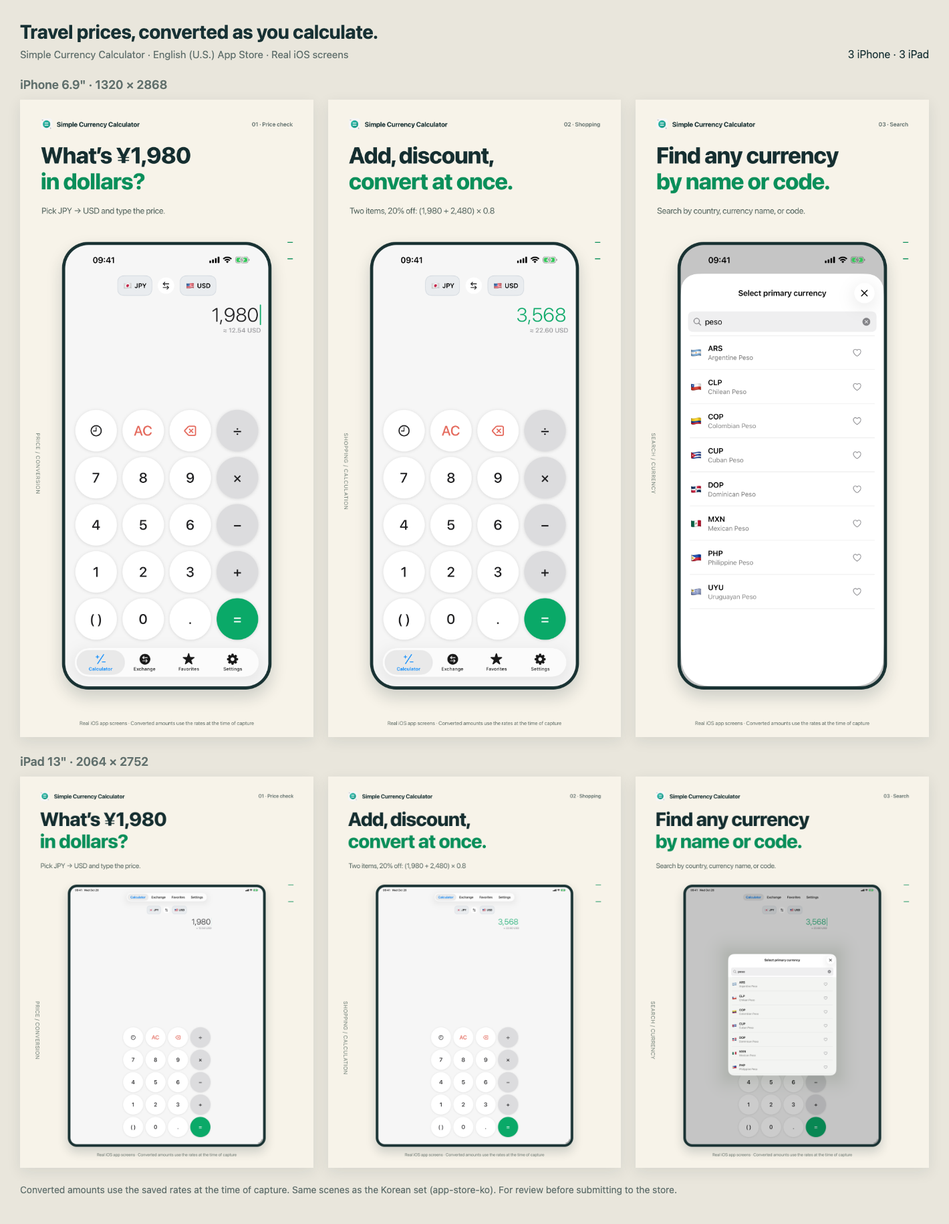
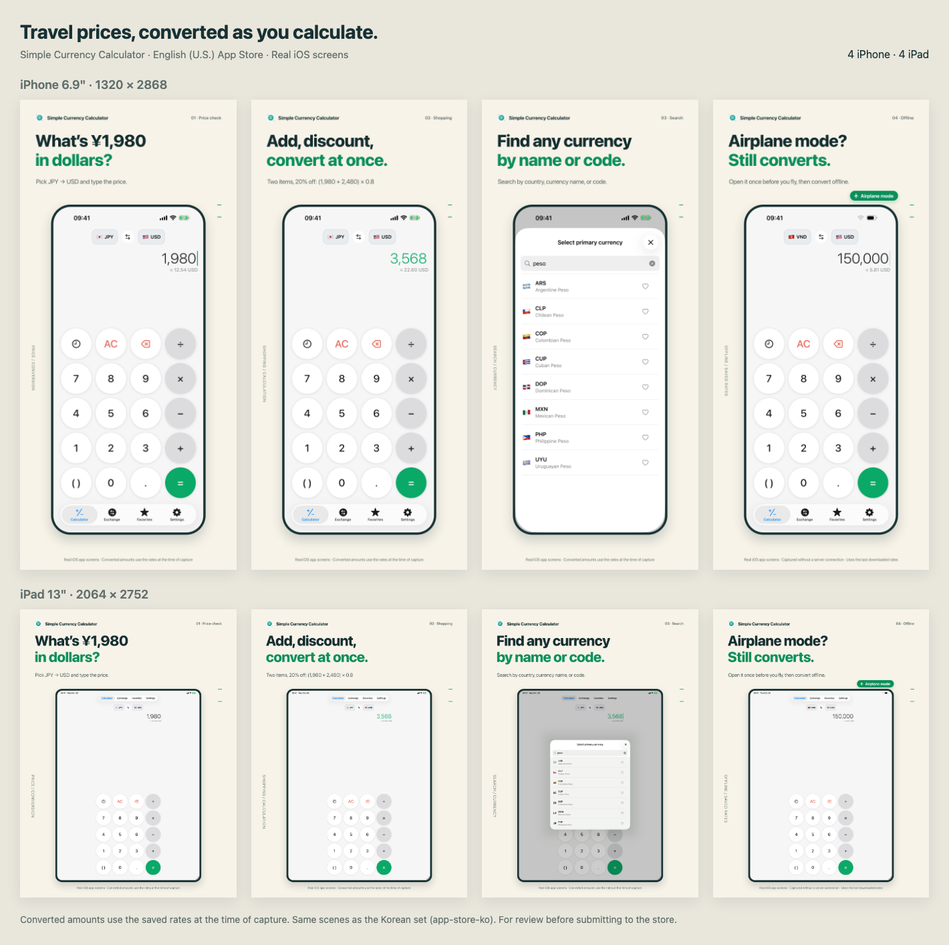
오프라인 장면을 스토어 이미지에 더하고 오프라인 문구에 조건을 붙인다 (#96)
- 환율을 한 번 받아 두면 비행기 안에서도 저장된 환율로 환산되는 장면을
  4번째 스크린샷으로 더한다. 통화는 베트남 동(한국어 VND→KRW, 영어 VND→USD).
  - Play 한국어: travel-ko-20261022/04-offline (실기기 비행기 모드 촬영)
  - Play 영어: en/05-offline (실기기 비행기 모드 촬영)
  - App Store 한국어·영어: iphone-04, ipad-04 (시뮬레이터에서 서버 연결 없이 촬영)
- 10월 22일에 만든 여행 세트(travel-ko-20261022) 전체를 함께 올린다.
- Play 등록 문구의 "오프라인에서도 사용 가능"에 "환율을 한 번 받아 두면"을 붙이고,
  기준일을 늘 보여 준다는 표현을 실제로 보여 주는 환율·즐겨찾기 화면으로 좁힌다.

Changed region(s): [[0.0, 0.0, 0.9606, 0.9965], [0.8986, 0.0311, 0.9915, 0.0623], [0.031, 0.9653, 0.062, 0.9965]]

diff --git a/store-assets/travel-ko-20261022/04-offline.html b/store-assets/travel-ko-20261022/04-offline.html
@@ -1,0 +1,1 @@
+<!DOCTYPE html><html lang="ko"><meta charset="utf-8"><title>심플 환율 계산기 · 04 · 오프라인</title><style>*{box-sizing:border-box}html,body{margin:0;padding:0}body{font-family:"Apple SD Gothic Neo","Arial",sans-serif;color:#152e30;background:#f7f3e9;-webkit-font-smoothing:antialiased}.artboard{position:relative;width:1080px;height:1920px;overflow:hidden;background:#f7f3e9}.brand{position:absolute;left:76px;top:60px;display:flex;align-items:center;gap:16px;font-size:24px;font-weight:700;letter-spacing:-.4px}.brand img{width:42px;height:42px;object-fit:contain;border-radius:10px}.episode{position:absolute;right:76px;top:69px;font-size:21px;font-weight:600;color:#61706d}.headline{position:absolute;left:76px;top:145px;margin:0;font-size:88px;line-height:1.14;letter-spacing:-4.2px;font-weight:800}.headline em{font-style:normal;color:#d85525}.subhead{position:absolute;left:80px;right:65px;top:366px;font-size:30px;line-height:1.5;letter-spacing:-.6px;color:#53645e;margin:0}.phone{position:absolute;top:484px;left:226px;width:628px;padding:10px;background:#193233;border-radius:43px;box-shadow:0 28px 56px rgba(21,46,48,.18)}.phone img{display:block;width:608px;height:auto;border-radius:33px}.footer{position:absolute;left:0;right:0;bottom:22px;text-align:center;font-size:19px;color:#68746d;letter-spacing:-.2px}.note{position:absolute;left:65px;top:928px;writing-mode:vertical-rl;letter-spacing:2.4px;font-size:20px;color:#6f7e75}.note span{color:#d85525;font-weight:800}.index-mark{position:absolute;right:76px;top:484px;width:20px;height:64px;border-top:3px solid #d85525;border-bottom:3px solid #d85525}.feature{position:relative;width:1024px;height:500px;overflow:hidden;background:#f7f3e9}.feature .brand{top:43px;left:53px;font-size:21px}.feature .brand img{width:35px;height:35px}.feature h1{position:absolute;top:135px;left:53px;font-size:60px;line-height:1.18;letter-spacing:-3px;margin:0;font-weight:800}.feature h1 em{font-style:normal;color:#d85525}.feature p{position:absolute;left:57px;top:305px;font-size:24px;letter-spacing:-.5px;color:#53645e;line-height:1.5}.feature-phone{position:absolute;width:277px;padding:7px;background:#193233;top:38px;right:64px;border-radius:29px;transform:rotate(5deg);box-shadow:0 20px 35px #19323320}.feature-phone img{width:263px;display:block;border-radius:22px}.feature .mini{position:absolute;bottom:27px;left:57px;font-size:17px;color:#68746d}.airplane{position:absolute;right:226px;top:420px;display:flex;align-items:center;gap:10px;height:48px;padding:0 22px 0 18px;border-radius:24px;background:#d85525;color:#fff;font-size:24px;font-weight:700;letter-spacing:-.4px;box-shadow:0 8px 18px rgba(216,85,37,.25)}.airplane svg{width:26px;height:26px;fill:#fff}.airplane-line{position:absolute;left:728px;top:468px;width:3px;height:39px;background:#d85525}.airplane-ring{position:absolute;left:712px;top:507px;width:34px;height:34px;border:3px solid #d85525;border-radius:50%}</style><main class="artboard"><div class="brand"><img src="app-icon.png" alt="">심플 환율 계산기</div><div class="episode">04 · 오프라인</div><h1 class="headline">비행기 안에서도,<br><em>저장된 환율로.</em></h1><p class="subhead">출국 전에 한 번 열어 두면 인터넷 없이 환산돼요.</p><div class="note">OFFLINE / SAVED RATES</div><div class="index-mark"></div><div class="phone"><img src="raw/04-offline.png" alt="실제 Android 앱 화면"></div><div class="airplane"><svg viewBox="0 0 24 24" aria-hidden="true"><path d="M21 16v-2l-8-5V3.5c0-.83-.67-1.5-1.5-1.5S10 2.67 10 3.5V9l-8 5v2l8-2.5V19l-2 1.5V22l3.5-1 3.5 1v-1.5L13 19v-5.5l8 2.5z"/></svg>비행기 모드</div><div class="airplane-line"></div><div class="airplane-ring"></div><div class="footer">실제 Android 앱 화면 · 비행기 모드에서 촬영 · 마지막으로 받은 환율 기준</div></main></html>

diff --git a/store-assets/en/05-offline.html b/store-assets/en/05-offline.html
@@ -1,0 +1,1 @@
+<!DOCTYPE html><html lang="en"><meta charset="utf-8"><title>Simple Currency Calculator · 05 · Offline</title><style>*{box-sizing:border-box}html,body{margin:0;padding:0}body{font-family:system-ui,"Helvetica Neue",Arial,sans-serif;color:#152e30;background:#f7f3e9;-webkit-font-smoothing:antialiased}.artboard{position:relative;width:1080px;height:1920px;overflow:hidden;background:#f7f3e9}.brand{position:absolute;left:76px;top:60px;display:flex;align-items:center;gap:16px;font-size:24px;font-weight:700;letter-spacing:-.4px}.brand img{width:42px;height:42px;object-fit:contain;border-radius:10px}.episode{position:absolute;right:76px;top:69px;font-size:21px;font-weight:600;color:#61706d}.headline{position:absolute;left:76px;top:145px;margin:0;font-size:84px;line-height:1.14;letter-spacing:-1.8px;font-weight:800}.headline em{font-style:normal;color:#d85525}.subhead{position:absolute;left:80px;right:65px;top:366px;font-size:30px;line-height:1.5;letter-spacing:-.6px;color:#53645e;margin:0}.phone{position:absolute;top:484px;left:226px;width:628px;padding:10px;background:#193233;border-radius:43px;box-shadow:0 28px 56px rgba(21,46,48,.18)}.phone img{display:block;width:608px;height:auto;border-radius:33px}.footer{position:absolute;left:0;right:0;bottom:22px;text-align:center;font-size:19px;color:#68746d;letter-spacing:-.2px}.note{position:absolute;left:65px;top:928px;writing-mode:vertical-rl;letter-spacing:2.4px;font-size:20px;color:#6f7e75}.note span{color:#d85525;font-weight:800}.index-mark{position:absolute;right:76px;top:484px;width:20px;height:64px;border-top:3px solid #d85525;border-bottom:3px solid #d85525}.feature{position:relative;width:1024px;height:500px;overflow:hidden;background:#f7f3e9}.feature .brand{top:43px;left:53px;font-size:21px}.feature .brand img{width:35px;height:35px}.feature h1{position:absolute;top:135px;left:53px;font-size:60px;line-height:1.18;letter-spacing:-3px;margin:0;font-weight:800}.feature h1 em{font-style:normal;color:#d85525}.feature p{position:absolute;left:57px;top:305px;font-size:24px;letter-spacing:-.5px;color:#53645e;line-height:1.5}.feature-phone{position:absolute;width:277px;padding:7px;background:#193233;top:38px;right:64px;border-radius:29px;transform:rotate(5deg);box-shadow:0 20px 35px #19323320}.feature-phone img{width:263px;display:block;border-radius:22px}.feature .mini{position:absolute;bottom:27px;left:57px;font-size:17px;color:#68746d}.airplane{position:absolute;right:226px;top:420px;display:flex;align-items:center;gap:10px;height:48px;padding:0 22px 0 18px;border-radius:24px;background:#d85525;color:#fff;font-size:24px;font-weight:700;letter-spacing:-.4px;box-shadow:0 8px 18px rgba(216,85,37,.25)}.airplane svg{width:26px;height:26px;fill:#fff}.airplane-line{position:absolute;left:728px;top:468px;width:3px;height:39px;background:#d85525}.airplane-ring{position:absolute;left:712px;top:507px;width:34px;height:34px;border:3px solid #d85525;border-radius:50%}</style><main class="artboard"><div class="brand"><img src="_icon.png" alt="">Simple Currency Calculator</div><div class="episode">05 · Offline</div><h1 class="headline">Airplane mode?<br><em>Still converts.</em></h1><p class="subhead">Open it once before you fly, then convert offline.</p><div class="note">OFFLINE / SAVED RATES</div><div class="index-mark"></div><div class="phone"><img src="raw/05-offline.png" alt="Real Android app screen"></div><div class="airplane"><svg viewBox="0 0 24 24" aria-hidden="true"><path d="M21 16v-2l-8-5V3.5c0-.83-.67-1.5-1.5-1.5S10 2.67 10 3.5V9l-8 5v2l8-2.5V19l-2 1.5V22l3.5-1 3.5 1v-1.5L13 19v-5.5l8 2.5z"/></svg>Airplane mode</div><div class="airplane-line"></div><div class="airplane-ring"></div><div class="footer">Real Android app screen · Captured in airplane mode · Uses the last downloaded rates</div></main></html>

diff --git a/store-assets/app-store-ko/preview.html b/store-assets/app-store-ko/preview.html
@@ -1,5 +1,5 @@
-<!DOCTYPE html><html lang="ko"><meta charset="utf-8"><title>심플 환율 계산기 · App Store 스크린샷</title><style>*{box-sizing:border-box}body{margin:0;background:#e9e6dc;color:#173134;font-family:"Apple SD Gothic Neo",sans-serif;padding:30px}header{max-width:1360px;margin:0 auto 22px;display:flex;justify-content:space-between;align-items:end}h1{font-size:29px;letter-spacing:-1px;margin:0}h2{max-width:1360px;margin:26px auto 12px;font-size:18px;color:#61706d;font-weight:600}p{font-size:15px;color:#61706d;margin:8px 0 0}.grid{display:grid;grid-template-columns:repeat(3,minmax(0,1fr));gap:22px;max-width:1360px;margin:auto}.grid img{width:100%;display:block;box-shadow:0 6px 20px #17313417}footer{max-width:1360px;margin:24px auto 0;color:#61706d;font-size:14px}</style>
-<header><div><h1>여행지 가격, 계산하면서 원화로.</h1><p>심플 환율 계산기 · 한국어 App Store용 · 실제 iOS 화면</p></div><span>iPhone 3장 · iPad 3장</span></header>
-<h2>iPhone 6.9형 · 1320 × 2868</h2><main class="grid"><a href="iphone-01.png"><img src="iphone-01.png" alt="iPhone 01 · 가격 확인"></a><a href="iphone-02.png"><img src="iphone-02.png" alt="iPhone 02 · 여행 쇼핑"></a><a href="iphone-03.png"><img src="iphone-03.png" alt="iPhone 03 · 통화 검색"></a></main>
-<h2>iPad 13형 · 2064 × 2752</h2><main class="grid"><a href="ipad-01.png"><img src="ipad-01.png" alt="iPad 01 · 가격 확인"></a><a href="ipad-02.png"><img src="ipad-02.png" alt="iPad 02 · 여행 쇼핑"></a><a href="ipad-03.png"><img src="ipad-03.png" alt="iPad 03 · 통화 검색"></a></main>
+<!DOCTYPE html><html lang="ko"><meta charset="utf-8"><title>심플 환율 계산기 · App Store 스크린샷</title><style>*{box-sizing:border-box}body{margin:0;background:#e9e6dc;color:#173134;font-family:"Apple SD Gothic Neo",sans-serif;padding:30px}header{max-width:1360px;margin:0 auto 22px;display:flex;justify-content:space-between;align-items:end}h1{font-size:29px;letter-spacing:-1px;margin:0}h2{max-width:1360px;margin:26px auto 12px;font-size:18px;color:#61706d;font-weight:600}p{font-size:15px;color:#61706d;margin:8px 0 0}.grid{display:grid;grid-template-columns:repeat(3,minmax(0,1fr));gap:22px;max-width:1360px;margin:auto}.grid4{grid-template-columns:repeat(4,minmax(0,1fr))}.grid img{width:100%;display:block;box-shadow:0 6px 20px #17313417}footer{max-width:1360px;margin:24px auto 0;color:#61706d;font-size:14px}</style>
+<header><div><h1>여행지 가격, 계산하면서 원화로.</h1><p>심플 환율 계산기 · 한국어 App Store용 · 실제 iOS 화면</p></div><span>iPhone 4장 · iPad 4장</span></header>
+<h2>iPhone 6.9형 · 1320 × 2868</h2><main class="grid grid4"><a href="iphone-01.png"><img src="iphone-01.png" alt="iPhone 01 · 가격 확인"></a><a href="iphone-02.png"><img src="iphone-02.png" alt="iPhone 02 · 여행 쇼핑"></a><a href="iphone-03.png"><img src="iphone-03.png" alt="iPhone 03 · 통화 검색"></a><a href="iphone-04.png"><img src="iphone-04.png" alt="iPhone 04 · 오프라인"></a></main>
+<h2>iPad 13형 · 2064 × 2752</h2><main class="grid grid4"><a href="ipad-01.png"><img src="ipad-01.png" alt="iPad 01 · 가격 확인"></a><a href="ipad-02.png"><img src="ipad-02.png" alt="iPad 02 · 여행 쇼핑"></a><a href="ipad-03.png"><img src="ipad-03.png" alt="iPad 03 · 통화 검색"></a><a href="ipad-04.png"><img src="ipad-04.png" alt="iPad 04 · 오프라인"></a></main>
 <footer>환산 금액은 촬영 당시의 저장 환율 기준입니다. 문구는 Android 여행 세트(travel-ko-20261022)와 같습니다. 스토어 등록 전 검토용입니다.</footer></html>

diff --git a/store-assets/app-store-en/preview.html b/store-assets/app-store-en/preview.html
@@ -1,5 +1,5 @@
-<!DOCTYPE html><html lang="en"><meta charset="utf-8"><title>Simple Currency Calculator · App Store screenshots</title><style>*{box-sizing:border-box}body{margin:0;background:#e9e6dc;color:#173134;font-family:system-ui,"Helvetica Neue",sans-serif;padding:30px}header{max-width:1360px;margin:0 auto 22px;display:flex;justify-content:space-between;align-items:end}h1{font-size:29px;letter-spacing:-.4px;margin:0}h2{max-width:1360px;margin:26px auto 12px;font-size:18px;color:#61706d;font-weight:600}p{font-size:15px;color:#61706d;margin:8px 0 0}.grid{display:grid;grid-template-columns:repeat(3,minmax(0,1fr));gap:22px;max-width:1360px;margin:auto}.grid img{width:100%;display:block;box-shadow:0 6px 20px #17313417}footer{max-width:1360px;margin:24px auto 0;color:#61706d;font-size:14px}</style>
-<header><div><h1>Travel prices, converted as you calculate.</h1><p>Simple Currency Calculator · English (U.S.) App Store · Real iOS screens</p></div><span>3 iPhone · 3 iPad</span></header>
-<h2>iPhone 6.9" · 1320 × 2868</h2><main class="grid"><a href="iphone-01.png"><img src="iphone-01.png" alt="iPhone 01 · Price check"></a><a href="iphone-02.png"><img src="iphone-02.png" alt="iPhone 02 · Shopping"></a><a href="iphone-03.png"><img src="iphone-03.png" alt="iPhone 03 · Search"></a></main>
-<h2>iPad 13" · 2064 × 2752</h2><main class="grid"><a href="ipad-01.png"><img src="ipad-01.png" alt="iPad 01 · Price check"></a><a href="ipad-02.png"><img src="ipad-02.png" alt="iPad 02 · Shopping"></a><a href="ipad-03.png"><img src="ipad-03.png" alt="iPad 03 · Search"></a></main>
+<!DOCTYPE html><html lang="en"><meta charset="utf-8"><title>Simple Currency Calculator · App Store screenshots</title><style>*{box-sizing:border-box}body{margin:0;background:#e9e6dc;color:#173134;font-family:system-ui,"Helvetica Neue",sans-serif;padding:30px}header{max-width:1360px;margin:0 auto 22px;display:flex;justify-content:space-between;align-items:end}h1{font-size:29px;letter-spacing:-.4px;margin:0}h2{max-width:1360px;margin:26px auto 12px;font-size:18px;color:#61706d;font-weight:600}p{font-size:15px;color:#61706d;margin:8px 0 0}.grid{display:grid;grid-template-columns:repeat(3,minmax(0,1fr));gap:22px;max-width:1360px;margin:auto}.grid4{grid-template-columns:repeat(4,minmax(0,1fr))}.grid img{width:100%;display:block;box-shadow:0 6px 20px #17313417}footer{max-width:1360px;margin:24px auto 0;color:#61706d;font-size:14px}</style>
+<header><div><h1>Travel prices, converted as you calculate.</h1><p>Simple Currency Calculator · English (U.S.) App Store · Real iOS screens</p></div><span>4 iPhone · 4 iPad</span></header>
+<h2>iPhone 6.9" · 1320 × 2868</h2><main class="grid grid4"><a href="iphone-01.png"><img src="iphone-01.png" alt="iPhone 01 · Price check"></a><a href="iphone-02.png"><img src="iphone-02.png" alt="iPhone 02 · Shopping"></a><a href="iphone-03.png"><img src="iphone-03.png" alt="iPhone 03 · Search"></a><a href="iphone-04.png"><img src="iphone-04.png" alt="iPhone 04 · Offline"></a></main>
+<h2>iPad 13" · 2064 × 2752</h2><main class="grid grid4"><a href="ipad-01.png"><img src="ipad-01.png" alt="iPad 01 · Price check"></a><a href="ipad-02.png"><img src="ipad-02.png" alt="iPad 02 · Shopping"></a><a href="ipad-03.png"><img src="ipad-03.png" alt="iPad 03 · Search"></a><a href="ipad-04.png"><img src="ipad-04.png" alt="iPad 04 · Offline"></a></main>
 <footer>Converted amounts use the saved rates at the time of capture. Same scenes as the Korean set (app-store-ko). For review before submitting to the store.</footer></html>

diff --git a/store-assets/travel-ko-20261022/03-currency-search.html b/store-assets/travel-ko-20261022/03-currency-search.html
@@ -1,0 +1,1 @@
+<!DOCTYPE html><html lang="ko"><meta charset="utf-8"><title>심플 환율 계산기 · 03 · 통화 검색</title><style>*{box-sizing:border-box}html,body{margin:0;padding:0}body{font-family:"Apple SD Gothic Neo","Arial",sans-serif;color:#152e30;background:#f7f3e9;-webkit-font-smoothing:antialiased}.artboard{position:relative;width:1080px;height:1920px;overflow:hidden;background:#f7f3e9}.brand{position:absolute;left:76px;top:60px;display:flex;align-items:center;gap:16px;font-size:24px;font-weight:700;letter-spacing:-.4px}.brand img{width:42px;height:42px;object-fit:contain;border-radius:10px}.episode{position:absolute;right:76px;top:69px;font-size:21px;font-weight:600;color:#61706d}.headline{position:absolute;left:76px;top:145px;margin:0;font-size:88px;line-height:1.14;letter-spacing:-4.2px;font-weight:800}.headline em{font-style:normal;color:#d85525}.subhead{position:absolute;left:80px;right:65px;top:366px;font-size:30px;line-height:1.5;letter-spacing:-.6px;color:#53645e;margin:0}.phone{position:absolute;top:484px;left:226px;width:628px;padding:10px;background:#193233;border-radius:43px;box-shadow:0 28px 56px rgba(21,46,48,.18)}.phone img{display:block;width:608px;height:auto;border-radius:33px}.footer{position:absolute;left:0;right:0;bottom:22px;text-align:center;font-size:19px;color:#68746d;letter-spacing:-.2px}.note{position:absolute;left:65px;top:928px;writing-mode:vertical-rl;letter-spacing:2.4px;font-size:20px;color:#6f7e75}.note span{color:#d85525;font-weight:800}.index-mark{position:absolute;right:76px;top:484px;width:20px;height:64px;border-top:3px solid #d85525;border-bottom:3px solid #d85525}.feature{position:relative;width:1024px;height:500px;overflow:hidden;background:#f7f3e9}.feature .brand{top:43px;left:53px;font-size:21px}.feature .brand img{width:35px;height:35px}.feature h1{position:absolute;top:135px;left:53px;font-size:60px;line-height:1.18;letter-spacing:-3px;margin:0;font-weight:800}.feature h1 em{font-style:normal;color:#d85525}.feature p{position:absolute;left:57px;top:305px;font-size:24px;letter-spacing:-.5px;color:#53645e;line-height:1.5}.feature-phone{position:absolute;width:277px;padding:7px;background:#193233;top:38px;right:64px;border-radius:29px;transform:rotate(5deg);box-shadow:0 20px 35px #19323320}.feature-phone img{width:263px;display:block;border-radius:22px}.feature .mini{position:absolute;bottom:27px;left:57px;font-size:17px;color:#68746d}</style><main class="artboard"><div class="brand"><img src="app-icon.png" alt="">심플 환율 계산기</div><div class="episode">03 · 통화 검색</div><h1 class="headline">여행지 통화,<br><em>검색해서 빠르게.</em></h1><p class="subhead">나라·통화 이름·코드로 찾을 수 있어요.</p><div class="note">SEARCH / CURRENCY</div><div class="index-mark"></div><div class="phone"><img src="raw/03-currency-search-list.png" alt="실제 Android 앱 화면"></div><div class="footer">실제 Android 앱 화면 · 환산 금액은 촬영 당시 환율 기준</div></main></html>

diff --git a/store-assets/travel-ko-20261022/02-shopping-discount.html b/store-assets/travel-ko-20261022/02-shopping-discount.html
@@ -1,0 +1,1 @@
+<!DOCTYPE html><html lang="ko"><meta charset="utf-8"><title>심플 환율 계산기 · 02 · 여행 쇼핑</title><style>*{box-sizing:border-box}html,body{margin:0;padding:0}body{font-family:"Apple SD Gothic Neo","Arial",sans-serif;color:#152e30;background:#f7f3e9;-webkit-font-smoothing:antialiased}.artboard{position:relative;width:1080px;height:1920px;overflow:hidden;background:#f7f3e9}.brand{position:absolute;left:76px;top:60px;display:flex;align-items:center;gap:16px;font-size:24px;font-weight:700;letter-spacing:-.4px}.brand img{width:42px;height:42px;object-fit:contain;border-radius:10px}.episode{position:absolute;right:76px;top:69px;font-size:21px;font-weight:600;color:#61706d}.headline{position:absolute;left:76px;top:145px;margin:0;font-size:88px;line-height:1.14;letter-spacing:-4.2px;font-weight:800}.headline em{font-style:normal;color:#d85525}.subhead{position:absolute;left:80px;right:65px;top:366px;font-size:30px;line-height:1.5;letter-spacing:-.6px;color:#53645e;margin:0}.phone{position:absolute;top:484px;left:226px;width:628px;padding:10px;background:#193233;border-radius:43px;box-shadow:0 28px 56px rgba(21,46,48,.18)}.phone img{display:block;width:608px;height:auto;border-radius:33px}.footer{position:absolute;left:0;right:0;bottom:22px;text-align:center;font-size:19px;color:#68746d;letter-spacing:-.2px}.note{position:absolute;left:65px;top:928px;writing-mode:vertical-rl;letter-spacing:2.4px;font-size:20px;color:#6f7e75}.note span{color:#d85525;font-weight:800}.index-mark{position:absolute;right:76px;top:484px;width:20px;height:64px;border-top:3px solid #d85525;border-bottom:3px solid #d85525}.feature{position:relative;width:1024px;height:500px;overflow:hidden;background:#f7f3e9}.feature .brand{top:43px;left:53px;font-size:21px}.feature .brand img{width:35px;height:35px}.feature h1{position:absolute;top:135px;left:53px;font-size:60px;line-height:1.18;letter-spacing:-3px;margin:0;font-weight:800}.feature h1 em{font-style:normal;color:#d85525}.feature p{position:absolute;left:57px;top:305px;font-size:24px;letter-spacing:-.5px;color:#53645e;line-height:1.5}.feature-phone{position:absolute;width:277px;padding:7px;background:#193233;top:38px;right:64px;border-radius:29px;transform:rotate(5deg);box-shadow:0 20px 35px #19323320}.feature-phone img{width:263px;display:block;border-radius:22px}.feature .mini{position:absolute;bottom:27px;left:57px;font-size:17px;color:#68746d}</style><main class="artboard"><div class="brand"><img src="app-icon.png" alt="">심플 환율 계산기</div><div class="episode">02 · 여행 쇼핑</div><h1 class="headline">합계도, 할인도.<br><em>계산하면서 환산.</em></h1><p class="subhead">두 물건에 20% 할인: (1,980 + 2,480) × 0.8</p><div class="note">SHOPPING / CALCULATION</div><div class="index-mark"></div><div class="phone"><img src="raw/02-discount-result.png" alt="실제 Android 앱 화면"></div><div class="footer">실제 Android 앱 화면 · 환산 금액은 촬영 당시 환율 기준</div></main></html>

diff --git a/store-assets/travel-ko-20261022/01-price-conversion.html b/store-assets/travel-ko-20261022/01-price-conversion.html
@@ -1,0 +1,1 @@
+<!DOCTYPE html><html lang="ko"><meta charset="utf-8"><title>심플 환율 계산기 · 01 · 가격 확인</title><style>*{box-sizing:border-box}html,body{margin:0;padding:0}body{font-family:"Apple SD Gothic Neo","Arial",sans-serif;color:#152e30;background:#f7f3e9;-webkit-font-smoothing:antialiased}.artboard{position:relative;width:1080px;height:1920px;overflow:hidden;background:#f7f3e9}.brand{position:absolute;left:76px;top:60px;display:flex;align-items:center;gap:16px;font-size:24px;font-weight:700;letter-spacing:-.4px}.brand img{width:42px;height:42px;object-fit:contain;border-radius:10px}.episode{position:absolute;right:76px;top:69px;font-size:21px;font-weight:600;color:#61706d}.headline{position:absolute;left:76px;top:145px;margin:0;font-size:88px;line-height:1.14;letter-spacing:-4.2px;font-weight:800}.headline em{font-style:normal;color:#d85525}.subhead{position:absolute;left:80px;right:65px;top:366px;font-size:30px;line-height:1.5;letter-spacing:-.6px;color:#53645e;margin:0}.phone{position:absolute;top:484px;left:226px;width:628px;padding:10px;background:#193233;border-radius:43px;box-shadow:0 28px 56px rgba(21,46,48,.18)}.phone img{display:block;width:608px;height:auto;border-radius:33px}.footer{position:absolute;left:0;right:0;bottom:22px;text-align:center;font-size:19px;color:#68746d;letter-spacing:-.2px}.note{position:absolute;left:65px;top:928px;writing-mode:vertical-rl;letter-spacing:2.4px;font-size:20px;color:#6f7e75}.note span{color:#d85525;font-weight:800}.index-mark{position:absolute;right:76px;top:484px;width:20px;height:64px;border-top:3px solid #d85525;border-bottom:3px solid #d85525}.feature{position:relative;width:1024px;height:500px;overflow:hidden;background:#f7f3e9}.feature .brand{top:43px;left:53px;font-size:21px}.feature .brand img{width:35px;height:35px}.feature h1{position:absolute;top:135px;left:53px;font-size:60px;line-height:1.18;letter-spacing:-3px;margin:0;font-weight:800}.feature h1 em{font-style:normal;color:#d85525}.feature p{position:absolute;left:57px;top:305px;font-size:24px;letter-spacing:-.5px;color:#53645e;line-height:1.5}.feature-phone{position:absolute;width:277px;padding:7px;background:#193233;top:38px;right:64px;border-radius:29px;transform:rotate(5deg);box-shadow:0 20px 35px #19323320}.feature-phone img{width:263px;display:block;border-radius:22px}.feature .mini{position:absolute;bottom:27px;left:57px;font-size:17px;color:#68746d}</style><main class="artboard"><div class="brand"><img src="app-icon.png" alt="">심플 환율 계산기</div><div class="episode">01 · 가격 확인</div><h1 class="headline">엔화 가격,<br><em>원화로 얼마지?</em></h1><p class="subhead">JPY → KRW를 고르고 가격을 입력하세요.</p><div class="note">PRICE / CONVERSION</div><div class="index-mark"></div><div class="phone"><img src="raw/01-price.png" alt="실제 Android 앱 화면"></div><div class="footer">실제 Android 앱 화면 · 환산 금액은 촬영 당시 환율 기준</div></main></html>

diff --git a/store-assets/travel-ko-20261022/feature-graphic-ko.html b/store-assets/travel-ko-20261022/feature-graphic-ko.html
@@ -1,0 +1,1 @@
+<!DOCTYPE html><html lang="ko"><meta charset="utf-8"><title>심플 환율 계산기 · 여행</title><style>*{box-sizing:border-box}html,body{margin:0;padding:0}body{font-family:"Apple SD Gothic Neo","Arial",sans-serif;color:#152e30;background:#f7f3e9;-webkit-font-smoothing:antialiased}.artboard{position:relative;width:1080px;height:1920px;overflow:hidden;background:#f7f3e9}.brand{position:absolute;left:76px;top:60px;display:flex;align-items:center;gap:16px;font-size:24px;font-weight:700;letter-spacing:-.4px}.brand img{width:42px;height:42px;object-fit:contain;border-radius:10px}.episode{position:absolute;right:76px;top:69px;font-size:21px;font-weight:600;color:#61706d}.headline{position:absolute;left:76px;top:145px;margin:0;font-size:88px;line-height:1.14;letter-spacing:-4.2px;font-weight:800}.headline em{font-style:normal;color:#d85525}.subhead{position:absolute;left:80px;right:65px;top:366px;font-size:30px;line-height:1.5;letter-spacing:-.6px;color:#53645e;margin:0}.phone{position:absolute;top:484px;left:226px;width:628px;padding:10px;background:#193233;border-radius:43px;box-shadow:0 28px 56px rgba(21,46,48,.18)}.phone img{display:block;width:608px;height:auto;border-radius:33px}.footer{position:absolute;left:0;right:0;bottom:22px;text-align:center;font-size:19px;color:#68746d;letter-spacing:-.2px}.note{position:absolute;left:65px;top:928px;writing-mode:vertical-rl;letter-spacing:2.4px;font-size:20px;color:#6f7e75}.note span{color:#d85525;font-weight:800}.index-mark{position:absolute;right:76px;top:484px;width:20px;height:64px;border-top:3px solid #d85525;border-bottom:3px solid #d85525}.feature{position:relative;width:1024px;height:500px;overflow:hidden;background:#f7f3e9}.feature .brand{top:43px;left:53px;font-size:21px}.feature .brand img{width:35px;height:35px}.feature h1{position:absolute;top:135px;left:53px;font-size:60px;line-height:1.18;letter-spacing:-3px;margin:0;font-weight:800}.feature h1 em{font-style:normal;color:#d85525}.feature p{position:absolute;left:57px;top:305px;font-size:24px;letter-spacing:-.5px;color:#53645e;line-height:1.5}.feature-phone{position:absolute;width:277px;padding:7px;background:#193233;top:38px;right:64px;border-radius:29px;transform:rotate(5deg);box-shadow:0 20px 35px #19323320}.feature-phone img{width:263px;display:block;border-radius:22px}.feature .mini{position:absolute;bottom:27px;left:57px;font-size:17px;color:#68746d}</style><main class="feature"><div class="brand"><img src="app-icon.png" alt="">심플 환율 계산기</div><h1>여행지 가격,<br><em>계산하면서 원화로.</em></h1><p>물건값을 더하고 할인까지.<br>환산 금액도 함께 확인하세요.</p><div class="feature-phone"><img src="raw/01-price.png" alt="실제 Android 앱 화면"></div><div class="mini">JPY · USD · EUR 등 160여 개 통화 지원</div></main></html>

diff --git a/store-assets/app-store-ko/ipad-04.html b/store-assets/app-store-ko/ipad-04.html
@@ -1,0 +1,21 @@
+<!DOCTYPE html><html lang="ko"><meta charset="utf-8"><title>심플 환율 계산기 · ipad 04 · 오프라인</title><style>*{box-sizing:border-box}html,body{margin:0;padding:0}
+body{font-family:"Apple SD Gothic Neo","Arial",sans-serif;color:#152e30;background:#f7f3e9;-webkit-font-smoothing:antialiased}
+.artboard{position:relative;width:2064px;height:2752px;overflow:hidden;background:#f7f3e9}
+.brand{position:absolute;left:140px;top:104px;display:flex;align-items:center;gap:31px;font-size:40px;font-weight:700;letter-spacing:-.4px}
+.brand img{width:68px;height:68px;border-radius:15px}
+.episode{position:absolute;right:140px;top:115px;font-size:35px;font-weight:600;color:#61706d}
+.headline{position:absolute;left:140px;top:220px;margin:0;font-size:148px;line-height:1.14;letter-spacing:-7.1px;font-weight:800}
+.headline em{font-style:normal;color:#0a8f5a}
+.subhead{position:absolute;left:144px;right:140px;top:590px;font-size:48px;line-height:1.5;letter-spacing:-.6px;color:#53645e;margin:0}
+.device{position:absolute;top:760px;left:50%;transform:translateX(-50%);padding:18px;background:#193233;border-radius:64px;box-shadow:0 34px 68px rgba(21,46,48,.18)}
+.device img{display:block;width:1356px;height:auto;border-radius:46px}
+.note{position:absolute;left:101px;top:1580px;writing-mode:vertical-rl;letter-spacing:2.4px;font-size:38px;color:#6f7e75}
+.index-mark{position:absolute;right:140px;top:760px;width:38px;height:122px;border-top:4px solid #0a8f5a;border-bottom:4px solid #0a8f5a}
+.footer{position:absolute;left:0;right:0;bottom:76px;text-align:center;font-size:30px;color:#68746d;letter-spacing:-.2px}
+.airplane{position:absolute;right:336px;top:676px;display:flex;align-items:center;gap:14px;height:70px;padding:0 34px 0 26px;border-radius:35px;background:#0a8f5a;color:#fff;font-size:36px;font-weight:700;letter-spacing:-.4px;box-shadow:0 12px 26px rgba(10,143,90,.25)}
+.airplane svg{width:38px;height:38px;fill:#fff}</style>
+<main class="artboard"><div class="brand"><img src="app-icon.png" alt="">심플 환율 계산기</div><div class="episode">04 · 오프라인</div>
+<h1 class="headline">비행기 안에서도,<br><em>저장된 환율로.</em></h1><p class="subhead">출국 전에 한 번 열어 두면 인터넷 없이 환산돼요.</p><div class="note">OFFLINE / SAVED RATES</div><div class="index-mark"></div>
+<div class="device"><img src="raw/ipad-04.png" alt="실제 iOS 앱 화면"></div>
+<div class="airplane"><svg viewBox="0 0 24 24" aria-hidden="true"><path d="M21 16v-2l-8-5V3.5c0-.83-.67-1.5-1.5-1.5S10 2.67 10 3.5V9l-8 5v2l8-2.5V19l-2 1.5V22l3.5-1 3.5 1v-1.5L13 19v-5.5l8 2.5z"/></svg>비행기 모드</div>
+<div class="footer">실제 iOS 앱 화면 · 서버 연결 없이 촬영 · 마지막으로 받은 환율 기준</div></main></html>

diff --git a/store-assets/app-store-ko/iphone-04.html b/store-assets/app-store-ko/iphone-04.html
@@ -1,0 +1,21 @@
+<!DOCTYPE html><html lang="ko"><meta charset="utf-8"><title>심플 환율 계산기 · iphone 04 · 오프라인</title><style>*{box-sizing:border-box}html,body{margin:0;padding:0}
+body{font-family:"Apple SD Gothic Neo","Arial",sans-serif;color:#152e30;background:#f7f3e9;-webkit-font-smoothing:antialiased}
+.artboard{position:relative;width:1320px;height:2868px;overflow:hidden;background:#f7f3e9}
+.brand{position:absolute;left:93px;top:84px;display:flex;align-items:center;gap:20px;font-size:30px;font-weight:700;letter-spacing:-.4px}
+.brand img{width:52px;height:52px;border-radius:12px}
+.episode{position:absolute;right:93px;top:95px;font-size:26px;font-weight:600;color:#61706d}
+.headline{position:absolute;left:93px;top:190px;margin:0;font-size:112px;line-height:1.14;letter-spacing:-5.3px;font-weight:800}
+.headline em{font-style:normal;color:#0a8f5a}
+.subhead{position:absolute;left:97px;right:93px;top:470px;font-size:38px;line-height:1.5;letter-spacing:-.6px;color:#53645e;margin:0}
+.device{position:absolute;top:640px;left:50%;transform:translateX(-50%);padding:14px;background:#193233;border-radius:118px;box-shadow:0 34px 68px rgba(21,46,48,.18)}
+.device img{display:block;width:914px;height:auto;border-radius:104px}
+.note{position:absolute;left:67px;top:1500px;writing-mode:vertical-rl;letter-spacing:2.4px;font-size:24px;color:#6f7e75}
+.index-mark{position:absolute;right:93px;top:640px;width:24px;height:78px;border-top:4px solid #0a8f5a;border-bottom:4px solid #0a8f5a}
+.footer{position:absolute;left:0;right:0;bottom:49px;text-align:center;font-size:24px;color:#68746d;letter-spacing:-.2px}
+.airplane{position:absolute;right:189px;top:556px;display:flex;align-items:center;gap:12px;height:60px;padding:0 28px 0 22px;border-radius:30px;background:#0a8f5a;color:#fff;font-size:30px;font-weight:700;letter-spacing:-.4px;box-shadow:0 10px 22px rgba(10,143,90,.25)}
+.airplane svg{width:32px;height:32px;fill:#fff}</style>
+<main class="artboard"><div class="brand"><img src="app-icon.png" alt="">심플 환율 계산기</div><div class="episode">04 · 오프라인</div>
+<h1 class="headline">비행기 안에서도,<br><em>저장된 환율로.</em></h1><p class="subhead">출국 전에 한 번 열어 두면 인터넷 없이 환산돼요.</p><div class="note">OFFLINE / SAVED RATES</div><div class="index-mark"></div>
+<div class="device"><img src="raw/iphone-04.png" alt="실제 iOS 앱 화면"></div>
+<div class="airplane"><svg viewBox="0 0 24 24" aria-hidden="true"><path d="M21 16v-2l-8-5V3.5c0-.83-.67-1.5-1.5-1.5S10 2.67 10 3.5V9l-8 5v2l8-2.5V19l-2 1.5V22l3.5-1 3.5 1v-1.5L13 19v-5.5l8 2.5z"/></svg>비행기 모드</div>
+<div class="footer">실제 iOS 앱 화면 · 서버 연결 없이 촬영 · 마지막으로 받은 환율 기준</div></main></html>

diff --git a/store-assets/app-store-en/ipad-04.html b/store-assets/app-store-en/ipad-04.html
@@ -1,0 +1,21 @@
+<!DOCTYPE html><html lang="en"><meta charset="utf-8"><title>Simple Currency Calculator · ipad 04 · Offline</title><style>*{box-sizing:border-box}html,body{margin:0;padding:0}
+body{font-family:system-ui,"Helvetica Neue",Arial,sans-serif;color:#152e30;background:#f7f3e9;-webkit-font-smoothing:antialiased}
+.artboard{position:relative;width:2064px;height:2752px;overflow:hidden;background:#f7f3e9}
+.brand{position:absolute;left:140px;top:104px;display:flex;align-items:center;gap:31px;font-size:40px;font-weight:700;letter-spacing:-.4px}
+.brand img{width:68px;height:68px;border-radius:15px}
+.episode{position:absolute;right:140px;top:115px;font-size:35px;font-weight:600;color:#61706d}
+.headline{position:absolute;left:140px;top:220px;margin:0;font-size:136px;line-height:1.14;letter-spacing:-2.7px;font-weight:800}
+.headline em{font-style:normal;color:#0a8f5a}
+.subhead{position:absolute;left:144px;right:140px;top:590px;font-size:48px;line-height:1.5;letter-spacing:-.6px;color:#53645e;margin:0}
+.device{position:absolute;top:760px;left:50%;transform:translateX(-50%);padding:18px;background:#193233;border-radius:64px;box-shadow:0 34px 68px rgba(21,46,48,.18)}
+.device img{display:block;width:1356px;height:auto;border-radius:46px}
+.note{position:absolute;left:101px;top:1580px;writing-mode:vertical-rl;letter-spacing:2.4px;font-size:38px;color:#6f7e75}
+.index-mark{position:absolute;right:140px;top:760px;width:38px;height:122px;border-top:4px solid #0a8f5a;border-bottom:4px solid #0a8f5a}
+.footer{position:absolute;left:0;right:0;bottom:76px;text-align:center;font-size:30px;color:#68746d;letter-spacing:-.2px}
+.airplane{position:absolute;right:336px;top:676px;display:flex;align-items:center;gap:14px;height:70px;padding:0 34px 0 26px;border-radius:35px;background:#0a8f5a;color:#fff;font-size:36px;font-weight:700;letter-spacing:-.2px;box-shadow:0 12px 26px rgba(10,143,90,.25)}
+.airplane svg{width:38px;height:38px;fill:#fff}</style>
+<main class="artboard"><div class="brand"><img src="app-icon.png" alt="">Simple Currency Calculator</div><div class="episode">04 · Offline</div>
+<h1 class="headline">Airplane mode?<br><em>Still converts.</em></h1><p class="subhead">Open it once before you fly, then convert offline.</p><div class="note">OFFLINE / SAVED RATES</div><div class="index-mark"></div>
+<div class="device"><img src="raw/ipad-04.png" alt="Real iOS app screen"></div>
+<div class="airplane"><svg viewBox="0 0 24 24" aria-hidden="true"><path d="M21 16v-2l-8-5V3.5c0-.83-.67-1.5-1.5-1.5S10 2.67 10 3.5V9l-8 5v2l8-2.5V19l-2 1.5V22l3.5-1 3.5 1v-1.5L13 19v-5.5l8 2.5z"/></svg>Airplane mode</div>
+<div class="footer">Real iOS app screens · Captured without a server connection · Uses the last downloaded rates</div></main></html>

diff --git a/store-assets/app-store-en/iphone-04.html b/store-assets/app-store-en/iphone-04.html
@@ -1,0 +1,21 @@
+<!DOCTYPE html><html lang="en"><meta charset="utf-8"><title>Simple Currency Calculator · iphone 04 · Offline</title><style>*{box-sizing:border-box}html,body{margin:0;padding:0}
+body{font-family:system-ui,"Helvetica Neue",Arial,sans-serif;color:#152e30;background:#f7f3e9;-webkit-font-smoothing:antialiased}
+.artboard{position:relative;width:1320px;height:2868px;overflow:hidden;background:#f7f3e9}
+.brand{position:absolute;left:93px;top:84px;display:flex;align-items:center;gap:20px;font-size:30px;font-weight:700;letter-spacing:-.4px}
+.brand img{width:52px;height:52px;border-radius:12px}
+.episode{position:absolute;right:93px;top:95px;font-size:26px;font-weight:600;color:#61706d}
+.headline{position:absolute;left:93px;top:190px;margin:0;font-size:103px;line-height:1.14;letter-spacing:-2.0px;font-weight:800}
+.headline em{font-style:normal;color:#0a8f5a}
+.subhead{position:absolute;left:97px;right:93px;top:470px;font-size:38px;line-height:1.5;letter-spacing:-.6px;color:#53645e;margin:0}
+.device{position:absolute;top:640px;left:50%;transform:translateX(-50%);padding:14px;background:#193233;border-radius:118px;box-shadow:0 34px 68px rgba(21,46,48,.18)}
+.device img{display:block;width:914px;height:auto;border-radius:104px}
+.note{position:absolute;left:67px;top:1500px;writing-mode:vertical-rl;letter-spacing:2.4px;font-size:24px;color:#6f7e75}
+.index-mark{position:absolute;right:93px;top:640px;width:24px;height:78px;border-top:4px solid #0a8f5a;border-bottom:4px solid #0a8f5a}
+.footer{position:absolute;left:0;right:0;bottom:49px;text-align:center;font-size:24px;color:#68746d;letter-spacing:-.2px}
+.airplane{position:absolute;right:189px;top:556px;display:flex;align-items:center;gap:12px;height:60px;padding:0 28px 0 22px;border-radius:30px;background:#0a8f5a;color:#fff;font-size:30px;font-weight:700;letter-spacing:-.2px;box-shadow:0 10px 22px rgba(10,143,90,.25)}
+.airplane svg{width:32px;height:32px;fill:#fff}</style>
+<main class="artboard"><div class="brand"><img src="app-icon.png" alt="">Simple Currency Calculator</div><div class="episode">04 · Offline</div>
+<h1 class="headline">Airplane mode?<br><em>Still converts.</em></h1><p class="subhead">Open it once before you fly, then convert offline.</p><div class="note">OFFLINE / SAVED RATES</div><div class="index-mark"></div>
+<div class="device"><img src="raw/iphone-04.png" alt="Real iOS app screen"></div>
+<div class="airplane"><svg viewBox="0 0 24 24" aria-hidden="true"><path d="M21 16v-2l-8-5V3.5c0-.83-.67-1.5-1.5-1.5S10 2.67 10 3.5V9l-8 5v2l8-2.5V19l-2 1.5V22l3.5-1 3.5 1v-1.5L13 19v-5.5l8 2.5z"/></svg>Airplane mode</div>
+<div class="footer">Real iOS app screens · Captured without a server connection · Uses the last downloaded rates</div></main></html>
